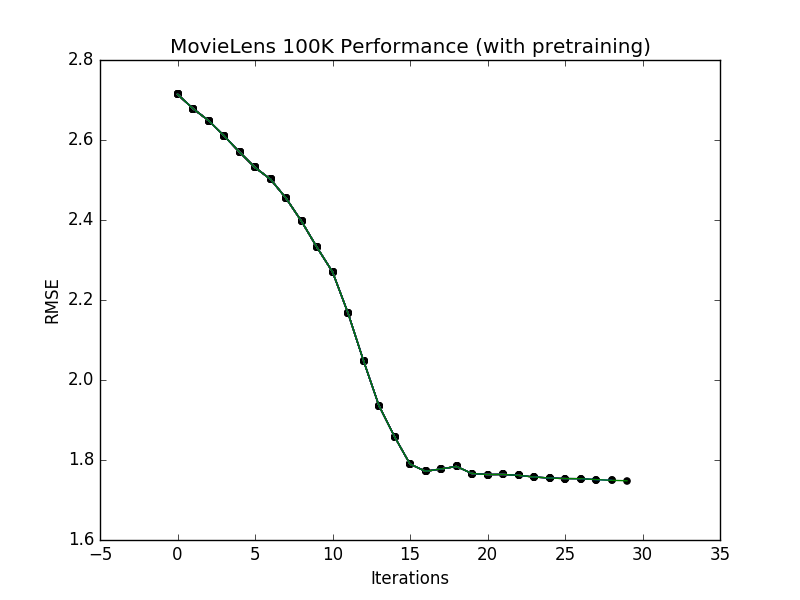
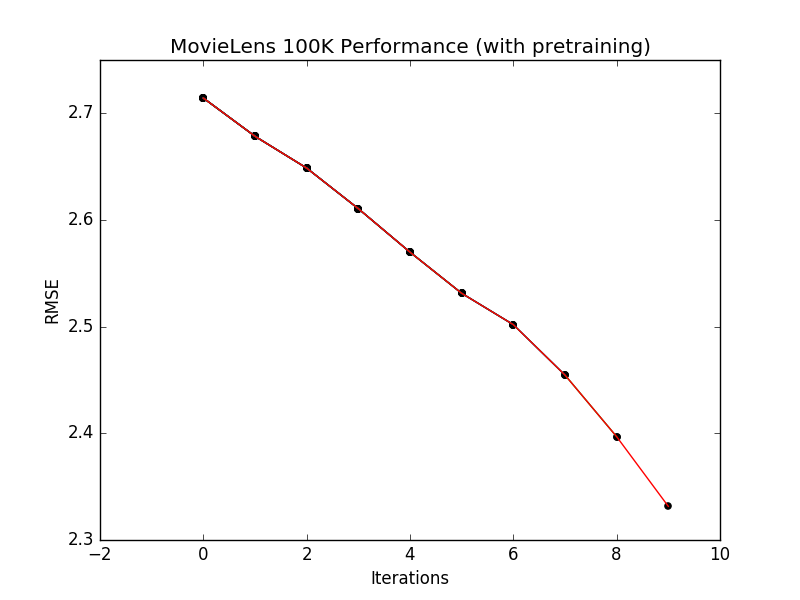
FIxed cap on items

diff --git a/Framework/NMF_ATTN_V2.py b/Framework/NMF_ATTN_V2.py
@@ -133,7 +133,10 @@ def get_pred_for_users(parameters, data, indices=None):
                 #print(v)
                 #print(v.latent)
             # For each index where a rating exists, generate it and append to our user predictions.
-    #build_latents(data,parameters,MAX_RECURSION)
+    print(len(NODE_MAP))
+    print(len(GEN_DEP))
+    #raw_input()
+    build_latents(data,parameters,MAX_RECURSION)
 
         #Append our user-specific results to the full prediction matrix.
     for user_index,movie_indices in indices:
@@ -146,8 +149,8 @@ def get_pred_for_users(parameters, data, indices=None):
     return full_predictions
 
 def build_latents(data, parameters, max_depth):
-    userToMovieNetInputs= {}
-    movieToUserNetInputs = {}
+    userToMovieNetInputs= []
+    movieToUserNetInputs = []
     userToMoviePredTarget = []
     movieToUserPredTarget = []
     rowLatents = parameters[keys_row_latents]
@@ -182,9 +185,9 @@ def build_latents(data, parameters, max_depth):
                     if (node.type == USER):
                         #print(node.latent)
                         #print(rating)
-                        userToMovieNetInputs[(node,rating)] = (np.array(np.concatenate((node.latent,rating.reshape(1)))))
+                        userToMovieNetInputs.append([(node,rating),(np.array(np.concatenate((node.latent,rating.reshape(1)))))])
                     else:
-                        movieToUserNetInputs[(node,rating)] = (np.array(np.concatenate((node.latent,rating.reshape(1)))))
+                        movieToUserNetInputs.append([(node,rating),(np.array(np.concatenate((node.latent,rating.reshape(1)))))])
 
         model_outs = {}
         #print("Generating model outs")
@@ -192,9 +195,15 @@ def build_latents(data, parameters, max_depth):
             #print(userToMovieNetInputs)
             #print(movieToUserNetInputs)
             #raw_input()
-            for k,v in net_queue.iteritems():
-                net_params = movie_to_user_net_parameters if k[0].type == MOVIE else user_to_movie_net_parameters
-                model_outs[k] = neural_net_predict(net_params,v)
+            if (len(net_queue) == 0):
+                continue
+            k,v = zip(*net_queue)
+            net_params = movie_to_user_net_parameters if k[0][0] == MOVIE else user_to_movie_net_parameters
+            #print(len(v),v,"wtf")
+            results = neural_net_predict(net_params,np.array(v))
+            #print(results.shape)
+            for x in range(len(k)):
+                model_outs[k[x]] = results[x,:]
         #print("Source depth is: ",source_depth)
         #print("Model outs len",len(model_outs))
             #print(model_outs.keys())
@@ -227,8 +236,10 @@ def build_latents(data, parameters, max_depth):
 
 def gen_dependencies(data, parameters, current_node):
     #print("gen dep")
+    global TRAININGMODE
     if (current_node.type,current_node.idx,current_node.depth) not in NODE_MAP:
         NODE_MAP[(current_node.type,current_node.idx,current_node.depth)] = current_node
+
     if GEN_DEP.get(current_node.tuple()):
         return
     movie_to_user_net_parameters = parameters[keys_movie_to_user_net]
@@ -240,9 +251,11 @@ def gen_dependencies(data, parameters, current_node):
         return
     #If node is a prototype,
     if current_node.type == USER and current_node.idx < num_user_latents:
+        GEN_DEP[current_node.tuple()] = 1
         current_node.latent = rowLatents[current_node.idx, :]
         return
     if current_node.type == MOVIE and current_node.idx < num_movie_latents:
+        GEN_DEP[current_node.tuple()] = 1
         current_node.latent = colLatents[:, current_node.idx]
         return
     #If we're here, we're going to have to generate stuff.
@@ -263,6 +276,7 @@ def gen_dependencies(data, parameters, current_node):
     for latent_source_idx, rating in zip(items,ratings):
         if TRAININGMODE and evidence_count > evidence_limit:
              break
+        evidence_count+=1
         #If the movie latent is valid, and does not produce a cycle, append it
         child_node_tuple = (child_node_type, latent_source_idx,current_node.depth-1)
         if(child_node_tuple not in NODE_MAP):
@@ -275,6 +289,7 @@ def gen_dependencies(data, parameters, current_node):
         if child_node not in current_node.children:
             current_node.children.append((child_node,rating))
 
+    GEN_DEP[current_node.tuple()] = 1
     return
     # Now have all latents, prepare for concatenations
     # dense_latents = (np.array(dense_latents))
@@ -489,8 +504,15 @@ def neural_net_predict(parameters=None, inputs=None):
 
     :return: normalized class log-probabilities
     """
+    #print(inputs)
+    #print(inputs.shape)
+    #raw_input()
     for W, b in parameters:
         outputs = np.dot(inputs, W) + b
+        # M = inputs.shape[0]
+        # dim_mean = np.sum(outputs,axis=1) / M
+        # dim_variance = np.sum(np.square(outputs - dim_mean))/ M
+        # x_hat = outputs - dim_mean / np.sqrt(dim_variance + .0000001)
         inputs = relu(outputs)
     return outputs
 
@@ -646,9 +668,11 @@ def print_perf(params, iter=0, gradient={}, train = None, test = None):
     #MovieDependenciesMap = sorted(MovieDependenciesMap.iterkeys(), key=lambda tup: tup[0])
 
     print("iter is ", iter)
-    #if (iter%10 != 0):
-    #    return
     print "It took: {} s".format(time.time() - curtime)
+    curtime = time.time()
+    if (iter%10 != 0):
+        return
+
     preds = inference(params, train)
     print("MAE is", mae(gt=train, pred=preds))
     print("RMSE is ", rmse(gt=train, pred=preds))
@@ -665,23 +689,23 @@ def print_perf(params, iter=0, gradient={}, train = None, test = None):
     print "Hitcount is: ", hitcount, sum(hitcount)
     curtime = time.time()
 
-    mse = rmse(gt=train, pred=inference(params, train))
-     #p1 is for graphing pretraining rating nets and canonical latents
-    train_mse.append(mse)
-    train_mse_iters.append(iter)
-
-    plt.scatter(train_mse_iters, train_mse, color='black')
-
-    plt.plot(train_mse_iters, train_mse)
-    plt.title('MovieLens 100K Performance (with pretraining)')
-    plt.xlabel('Iterations')
-    plt.ylabel('RMSE')
-    plt.draw()
-    plt.pause(0.001)
-    if len(train_mse)%10 == 0:
-      #End the plotting with a raw input
-      plt.savefig('finalgraph.png')
-      print("Final Total Performance: ", train_mse)
+    # mse = rmse(gt=train, pred=inference(params, train))
+    #  #p1 is for graphing pretraining rating nets and canonical latents
+    # train_mse.append(mse)
+    # train_mse_iters.append(iter)
+    #
+    # plt.scatter(train_mse_iters, train_mse, color='black')
+    #
+    # plt.plot(train_mse_iters, train_mse)
+    # plt.title('MovieLens 100K Performance (with pretraining)')
+    # plt.xlabel('Iterations')
+    # plt.ylabel('RMSE')
+    # plt.draw()
+    # plt.pause(0.001)
+    # if len(train_mse)%10 == 0:
+    #   #End the plotting with a raw input
+    #   plt.savefig('finalgraph.png')
+    #   print("Final Total Performance: ", train_mse)
 
 
 def get_candidate_latents(all_items, all_ratings, split = None):

diff --git a/Framework/train.py b/Framework/train.py
@@ -62,7 +62,7 @@ def pretrain_combiners(full_data, parameters, step_size, num_epochs, batches_per
 
     return parameters
 
-@profile
+#@profile
 def adam(grad, init_params, callback=None, num_iters=100,
          step_size=0.001, b1=0.9, b2=0.999, eps=10**-8, iter_val = 1):
     """Adam as described in http://arxiv.org/pdf/1412.6980.pdf.
@@ -131,7 +131,7 @@ def train(train_data, test_data, can_idx=None, train_idx=None, test_idx=None, pa
             # Perform pretraining on the columnless and rowless nets
             parameters = pretrain_combiners(train_data, parameters.copy(), *p2Args)
 
-        parameters = pretrain_all(train_data, parameters.copy(), *p2Args)
+        #parameters = pretrain_all(train_data, parameters.copy(), *p2Args)
 
         #   pickle.dump(parameters, open("parameters", "wb"))
     else:
@@ -148,7 +148,7 @@ def train(train_data, test_data, can_idx=None, train_idx=None, test_idx=None, pa
     num_opt_passes = 100
 
     for iter in range(num_opt_passes):
-        grads = lossGrad(train_data, num_batches=trainArgs[2], reg_alpha=.001, num_aggregates=1, param_to_opt=parameters)
+        grads = lossGrad(train_data, num_batches=trainArgs[2], reg_alpha=.001, num_aggregates=1)
         parameters = adam(grads, parameters, step_size=trainArgs[0], num_iters=100,callback=dataCallback(train_data, test_data), b1 = 0.5,iter_val=1)
 
     # Generate our rating predictions on the train set from the trained parameters and print performance and comparison

diff --git a/Framework/atnn.py b/Framework/atnn.py
@@ -11,7 +11,7 @@ full_data = DataLoader().LoadData(file_path="../Data/ml-100k/u.data", data_type=
 print full_data.shape
 print np.mean(np.sum(full_data > 0,axis = 1)) #Check average ratings per user
 # Reduce the matrix to toy size
-full_data = full_data[:100,:100]
+#full_data = full_data[:100,:100]
 rows = [x for x in range((full_data.shape[0])) if full_data[x,:].sum() > 0]
 cols = [x for x in range((full_data.shape[1])) if full_data[:,x].sum() > 0]
 full_data = full_data[rows,:]
